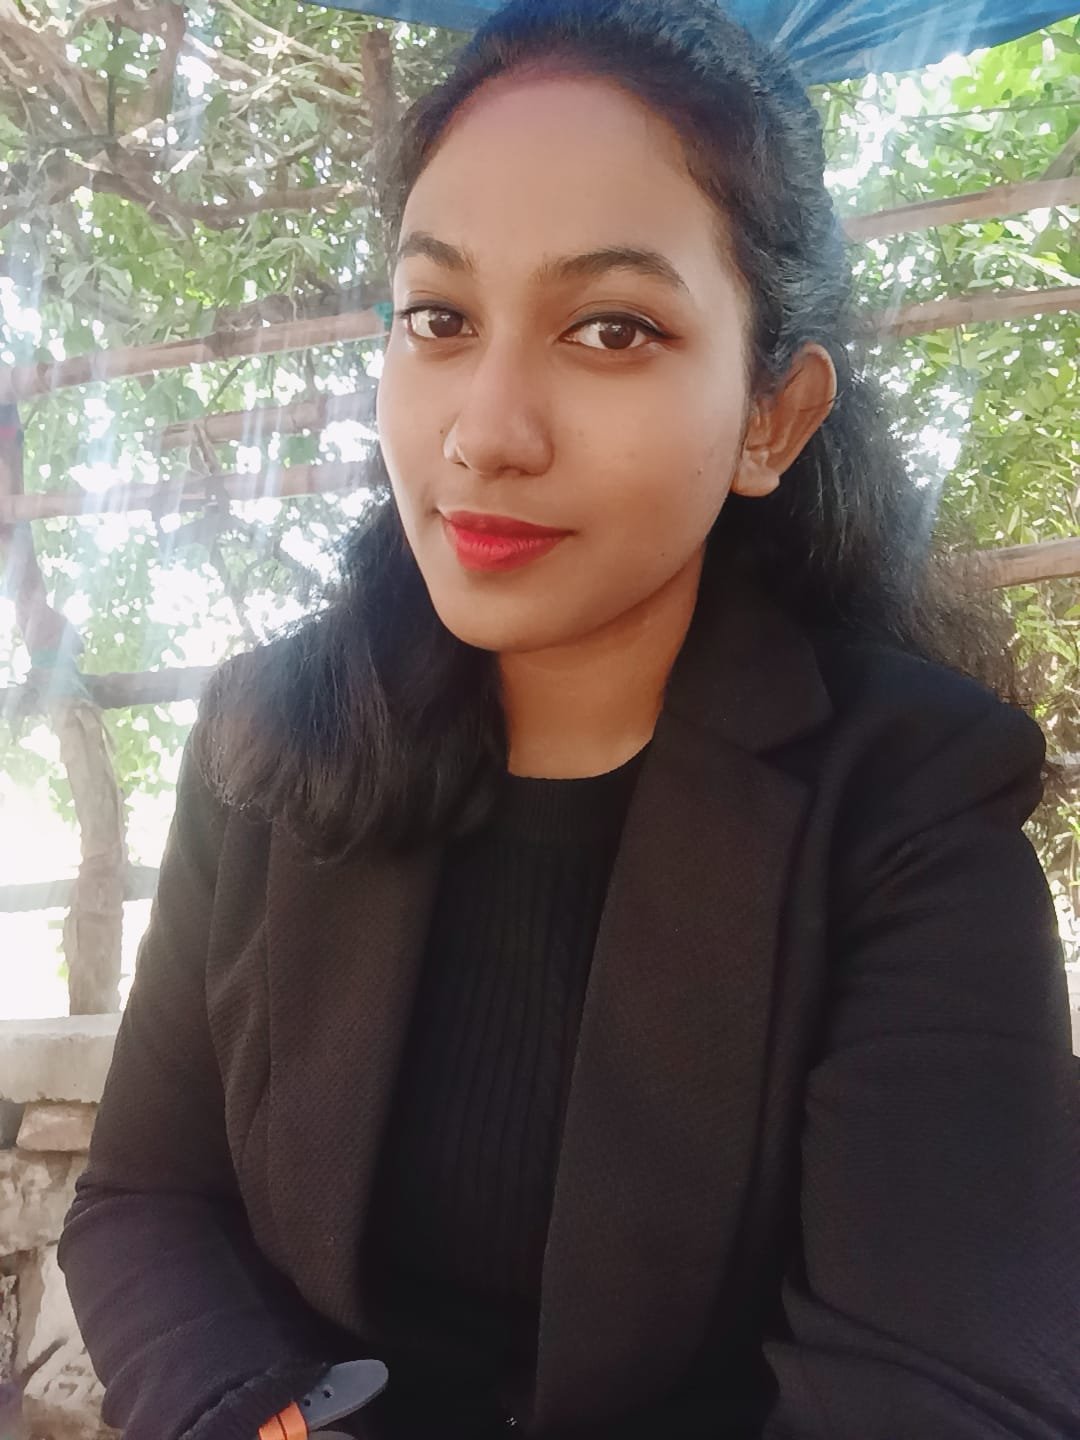
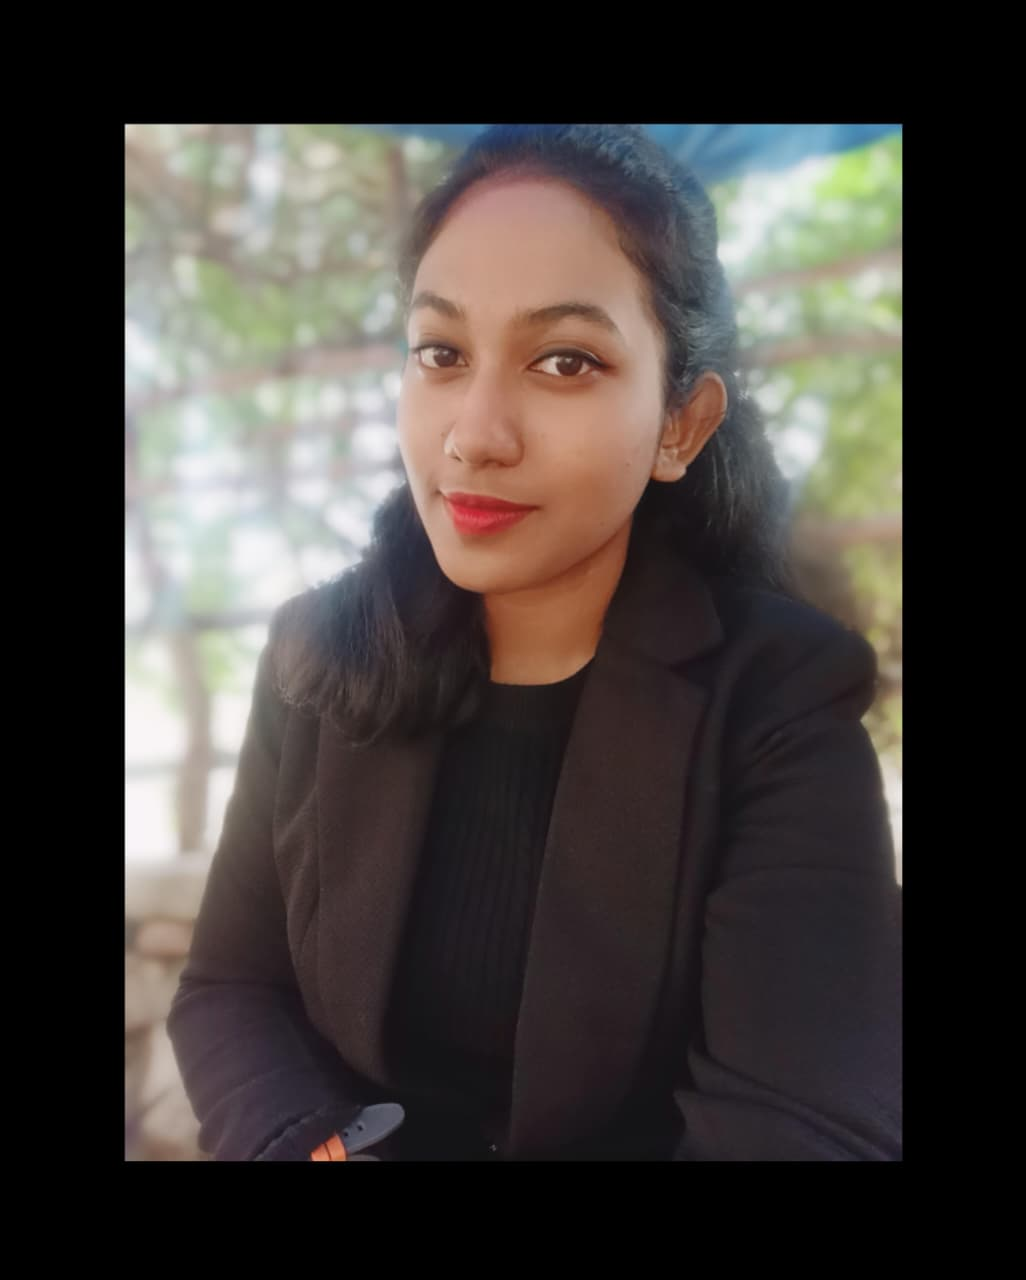
eggffd

diff --git a/tanwisha/tanwi.html b/tanwisha/tanwi.html
@@ -46,11 +46,8 @@
     <h3>● About</h3>
 
     <p>
-        B.Tech student in COMPUTER SCIENCE & ENGINEERING (2024–2028) at MAKAUT, 
-        with a strong foundation in programming and web development. Skilled in C (with DSA), 
-        Python, HTML, CSS, and JavaScript. Passionate about building real-world solutions, 
-        currently working on the Safe-Link project under Team TechGen. 
-        Known for problem-solving ability, adaptability, and interest in AI-driven technologies.
+        👩💻 CSE Undergrad  | 🌐 Web Dev Enthusiast | 💡 Exploring C, Java & Python | 🚀 Future M.Tech & Internship Aspirant
+
     </p>
 
 </div>
@@ -80,7 +77,7 @@
 
         <tr>
             <td>2</td>
-            <td>___ (XII)</td>
+            <td>Indian School Certificate (ISC) (XII)</td>
             <td>___</td>
             <td>Passed</td>
             <td>2023-24</td>
@@ -98,7 +95,7 @@
 
         <tr>
             <td>3</td>
-            <td>___ (X)</td>
+            <td>Indian Certificate of Secondary Education (ICSE)(X)</td>
             <td>___</td>
             <td>Passed</td>
             <td>2021-22</td>
